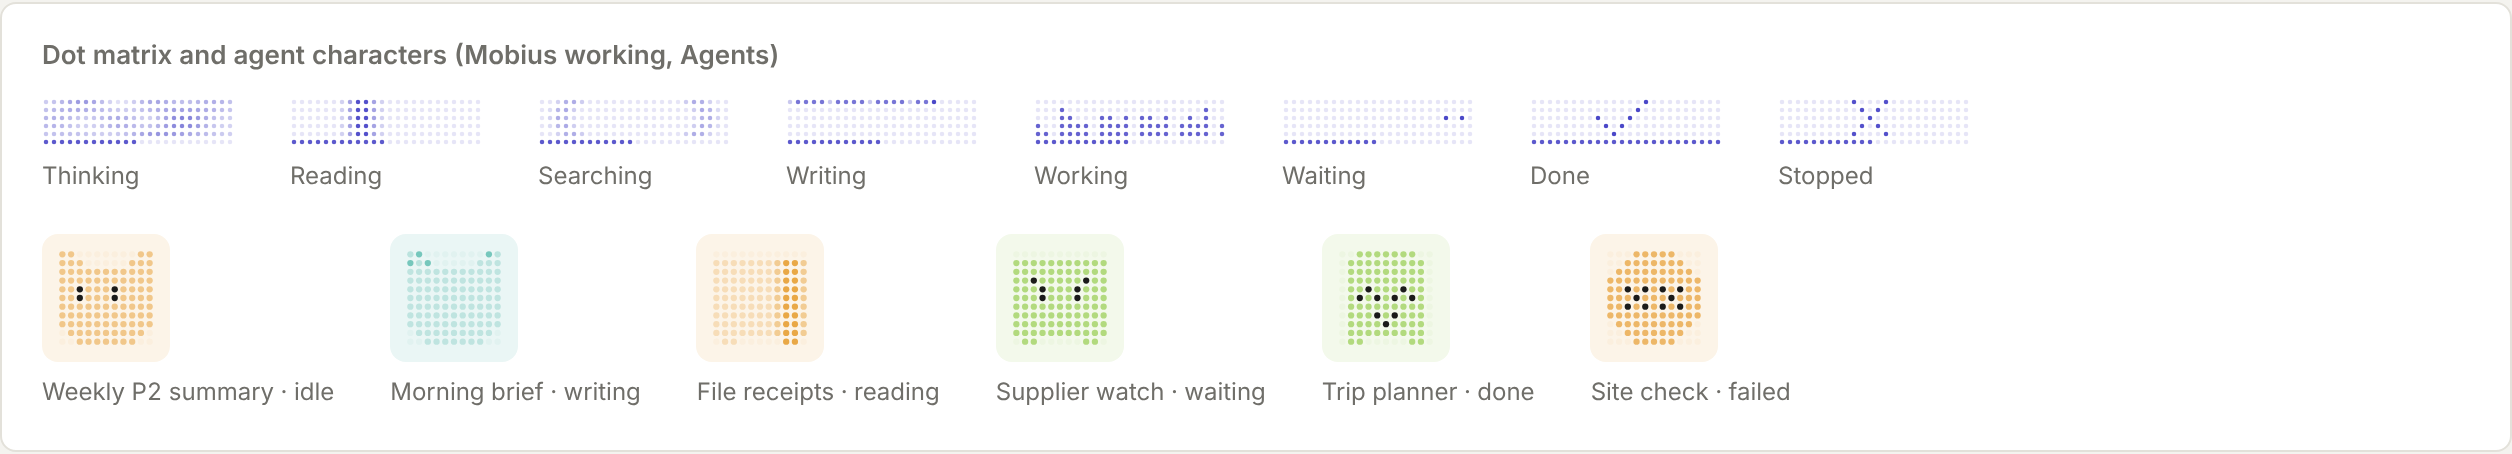
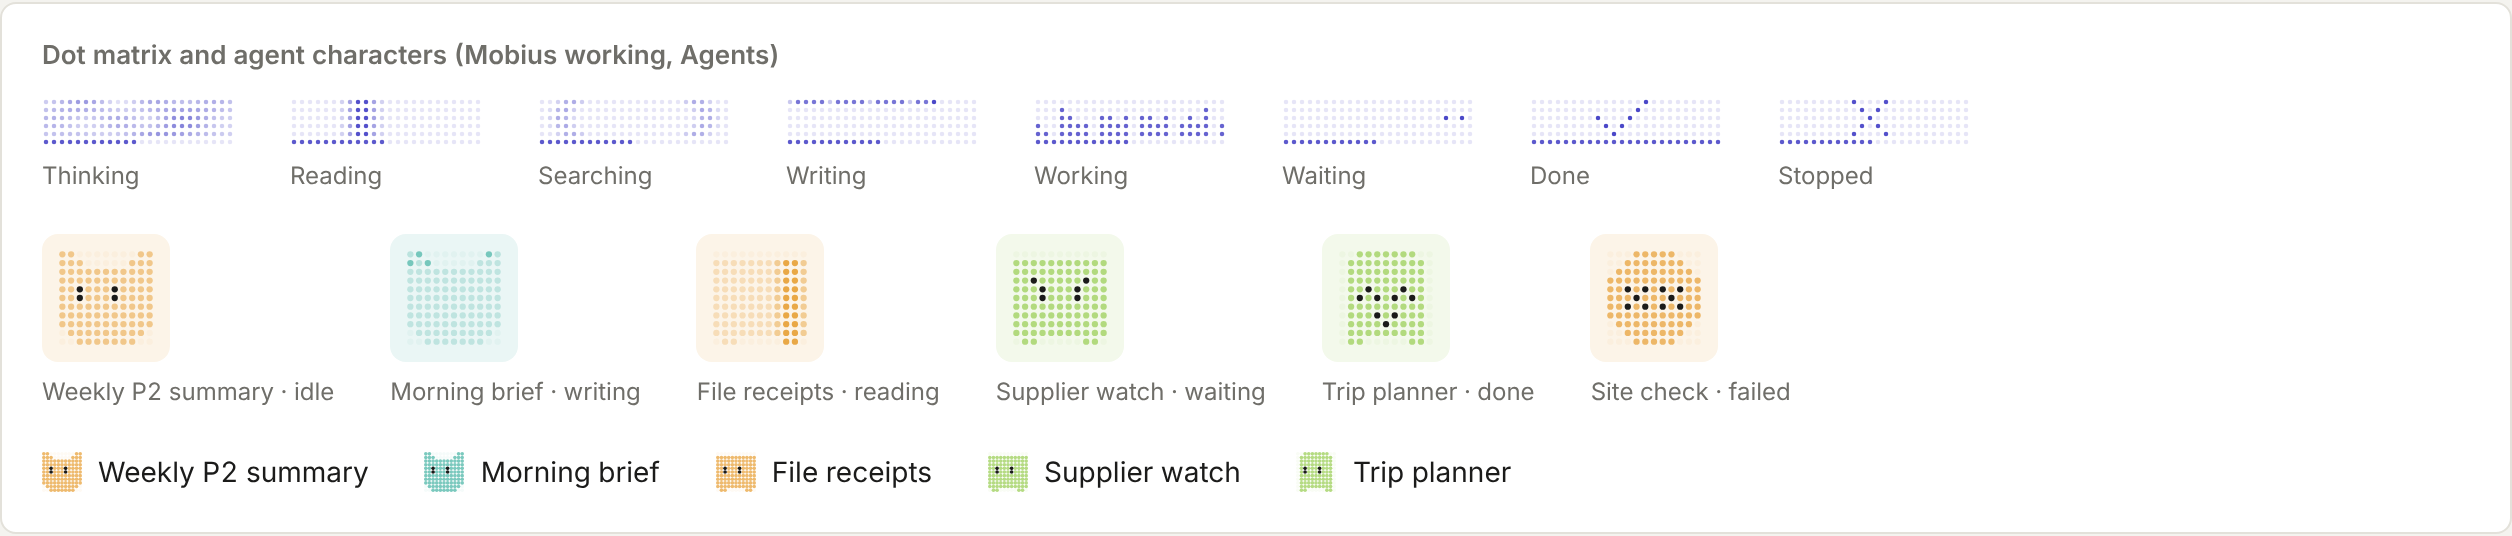
Shell: row-size agent characters (#615)
The small DotCharacter now sits at 20 without the tinted pad, with dots that touch so
the shape reads as one silhouette beside line icons in list rows. The reference sheet
shows it in a row.

Claude-Session: https://claude.ai/code/session_01VRGwo6jTP5FaDQDU1wMNRF

diff --git a/apps/desktop/src/ui/DotMatrix.tsx b/apps/desktop/src/ui/DotMatrix.tsx
@@ -104,12 +104,13 @@ export function DotCharacter({ name, state, colour, size = 'medium', at, classNa
     const w = el.clientWidth;
     const n = CHARACTER_SIZE;
     const step = w / n;
-    const r = step * 0.36;
+    // At row size the dots nearly touch, so the shape reads as one silhouette rather than a faint grid.
+    const r = step * (size === 'small' ? 0.5 : 0.36);
     const styles = getComputedStyle(el);
     const fill = styles.color;
     const ink = styles.getPropertyValue('--ink').trim() || fill;
     const face = showsFace(state) ? new Set(faceDots(state, t).map(([x, y]) => `${x},${y}`)) : null;
-    const lit = state === 'idle' || state === 'paused' ? 0.55 : 0.75;
+    const lit = (state === 'idle' || state === 'paused' ? 0.55 : 0.75) + (size === 'small' ? 0.2 : 0);
     ctx.clearRect(0, 0, w, w);
     for (let y = 0; y < n; y += 1) {
       for (let x = 0; x < n; x += 1) {
@@ -121,7 +122,7 @@ export function DotCharacter({ name, state, colour, size = 'medium', at, classNa
       }
     }
     ctx.globalAlpha = 1;
-  }, at, [name, state, body]);
+  }, at, [name, state, body, size]);
   return (
     <span className={className ? `ui-dot-character ${className}` : 'ui-dot-character'} data-size={size} data-state={state} style={{ '--character': `var(--c-${tone})` } as React.CSSProperties} aria-hidden="true">
       <canvas ref={ref} />

diff --git a/apps/desktop/src/ui/ui.css b/apps/desktop/src/ui/ui.css
@@ -157,7 +157,9 @@
 /* The dot matrix and agent characters (DotMatrix.tsx): indigo for Mobius, an agent's own content colour for it. */
 .ui-dot-matrix { display: block; width: calc(var(--sp-8) * 3); height: auto; flex: none; color: var(--mobius); }
 .ui-dot-character { display: inline-grid; place-items: center; flex: none; color: var(--character); border-radius: var(--radius-panel); background: color-mix(in srgb, var(--character) 12%, var(--paper)); padding: var(--sp-1); }
-.ui-dot-character canvas { display: block; width: var(--sp-6); aspect-ratio: 1; }
+.ui-dot-character canvas { display: block; width: var(--sp-5); aspect-ratio: 1; }
+/* Small sits in list rows beside line icons: no tinted pad, just the character. */
+.ui-dot-character[data-size="small"] { padding: 0; background: none; }
 .ui-dot-character[data-size="medium"] { padding: var(--sp-2); }
 .ui-dot-character[data-size="medium"] canvas { width: calc(var(--sp-8) + var(--sp-4)); }
 .ui-dot-character[data-size="large"] { padding: var(--sp-3); border-radius: var(--radius-sheet); }

diff --git a/apps/desktop/src/ui-sheet/Sheet.tsx b/apps/desktop/src/ui-sheet/Sheet.tsx
@@ -719,6 +719,11 @@ export function Sheet() {
               <div key={n} className="sheet-dot"><DotCharacter name={n} state={st} at={1.3} /><span>{n} · {st}</span></div>
             ))}
           </div>
+          <div className="sheet-dots">
+            {(['Weekly P2 summary', 'Morning brief', 'File receipts', 'Supplier watch', 'Trip planner'] as const).map((n) => (
+              <span key={n} className="sheet-dot-row"><DotCharacter name={n} state="idle" size="small" at={1.3} />{n}</span>
+            ))}
+          </div>
         </Card>
       </div>
     </main>

diff --git a/apps/desktop/src/ui-sheet/sheet.css b/apps/desktop/src/ui-sheet/sheet.css
@@ -50,3 +50,4 @@ body { overflow: auto; background: var(--frame); }
 .sheet-dots { display: flex; flex-wrap: wrap; gap: 20px 28px; margin-bottom: 20px; }
 .sheet-dots:last-child { margin-bottom: 0; }
 .sheet-dot { display: grid; justify-items: start; gap: 6px; font-size: var(--fs-xs); color: var(--muted); }
+.sheet-dot-row { display: inline-flex; align-items: center; gap: 8px; font-size: var(--fs-md); color: var(--ink); }
